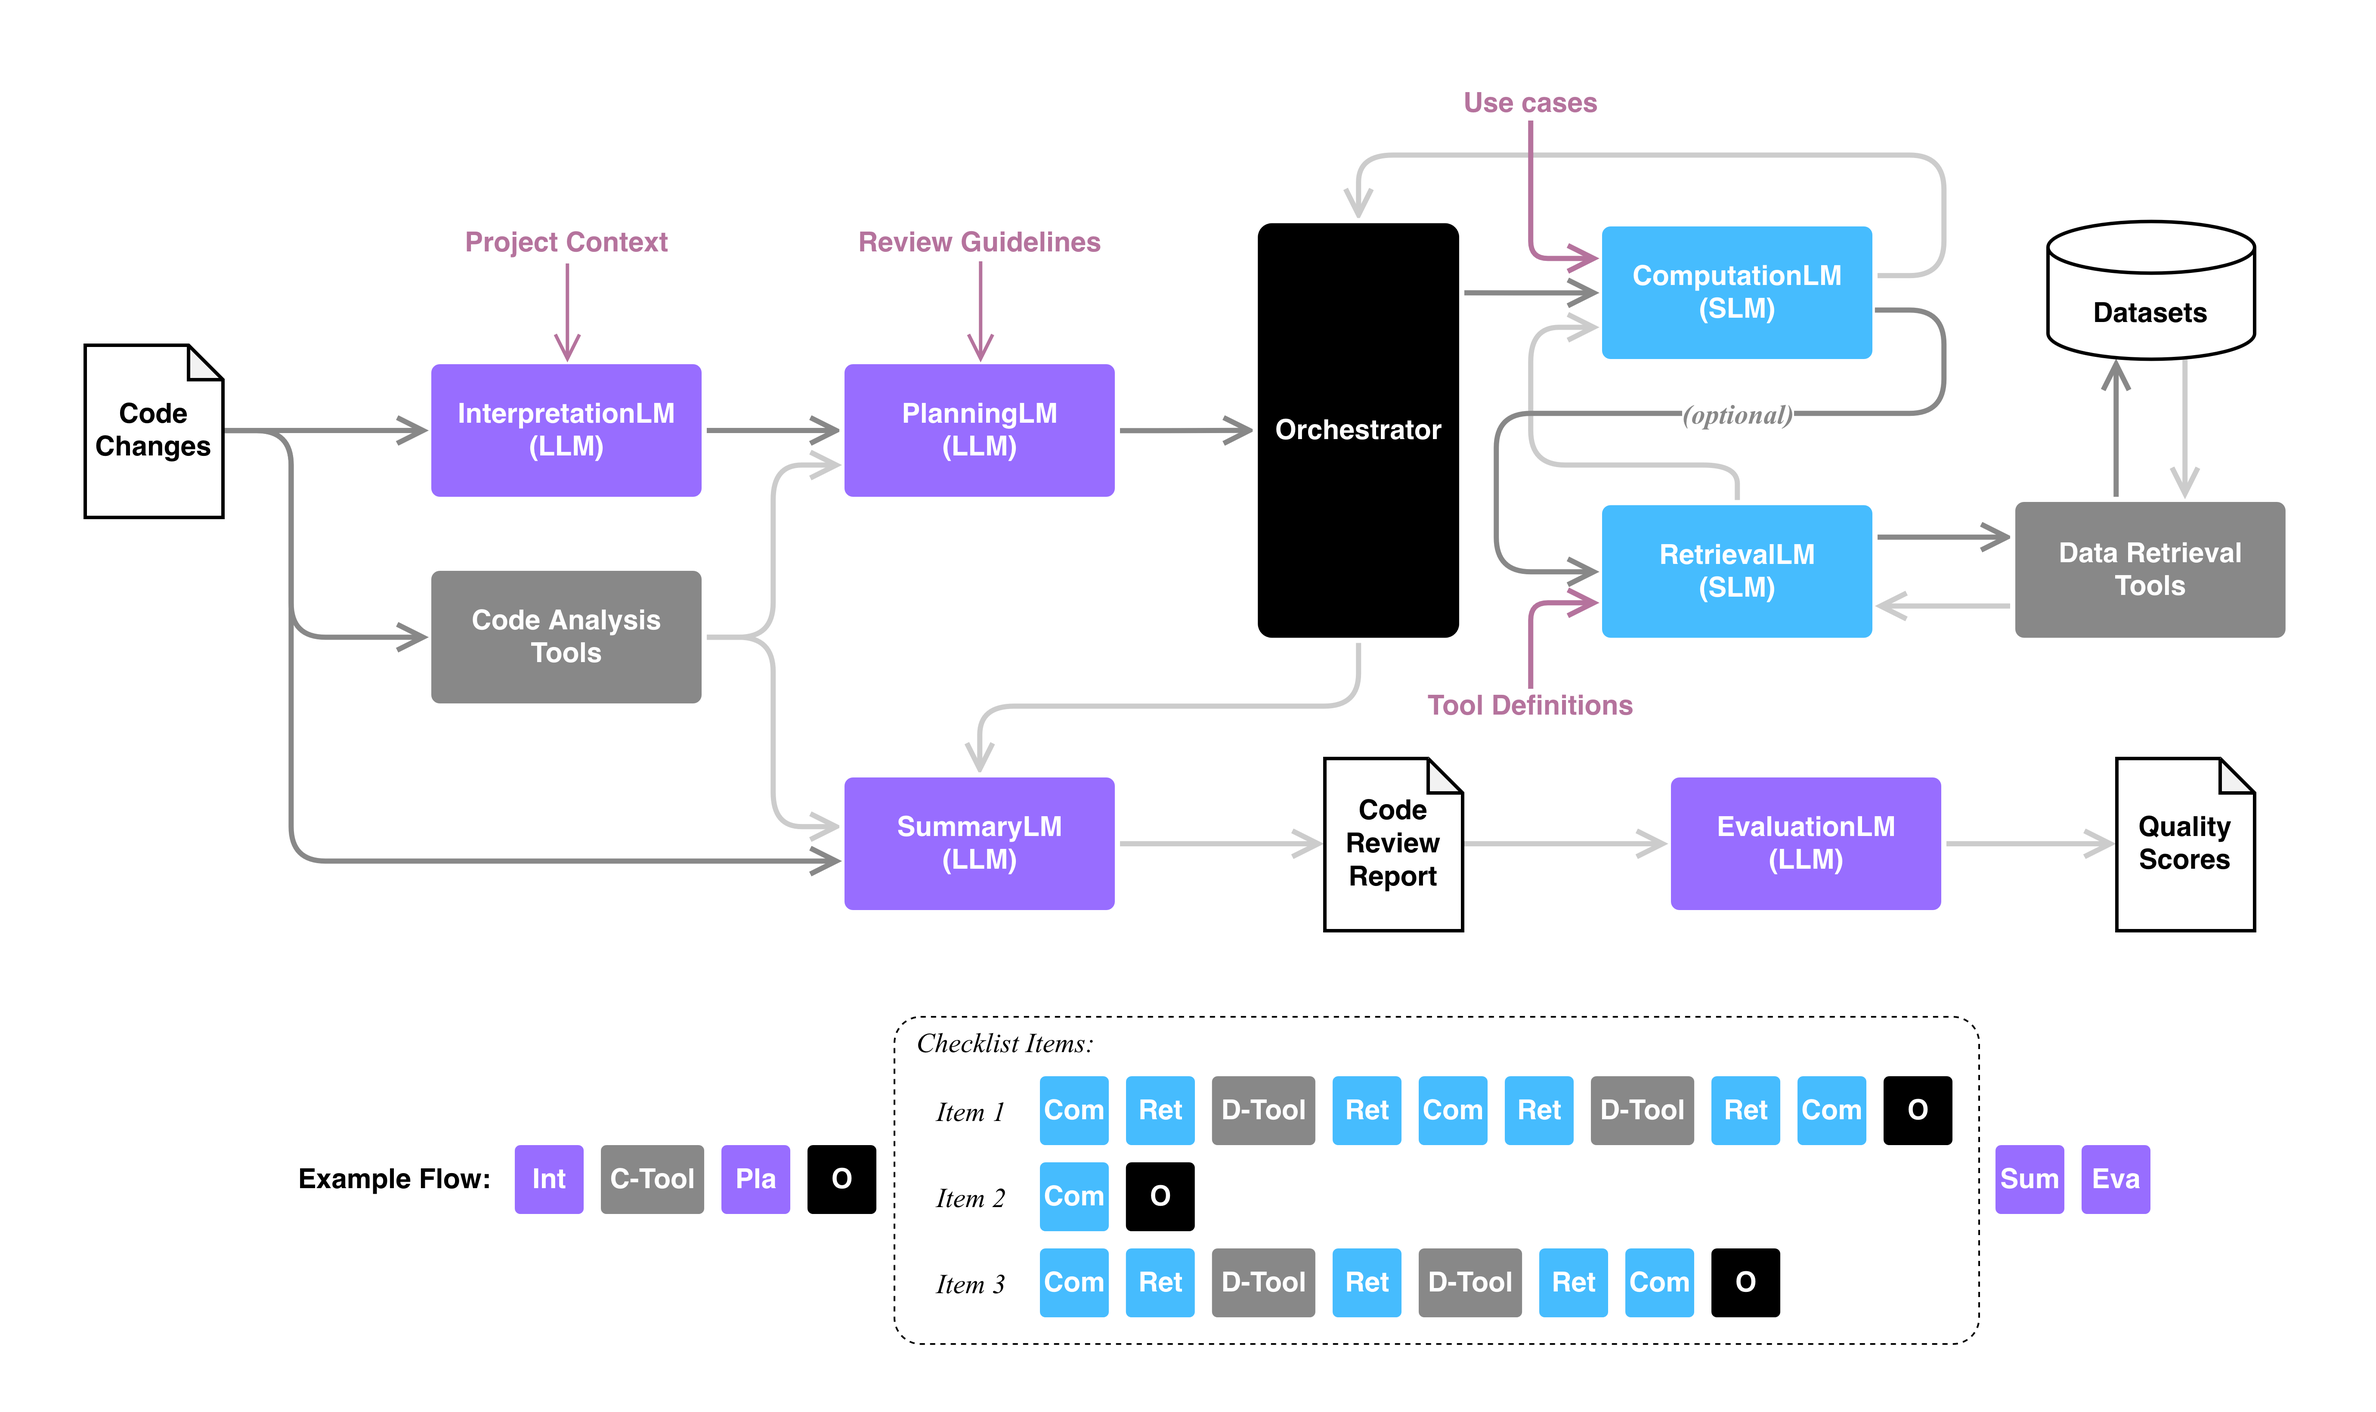
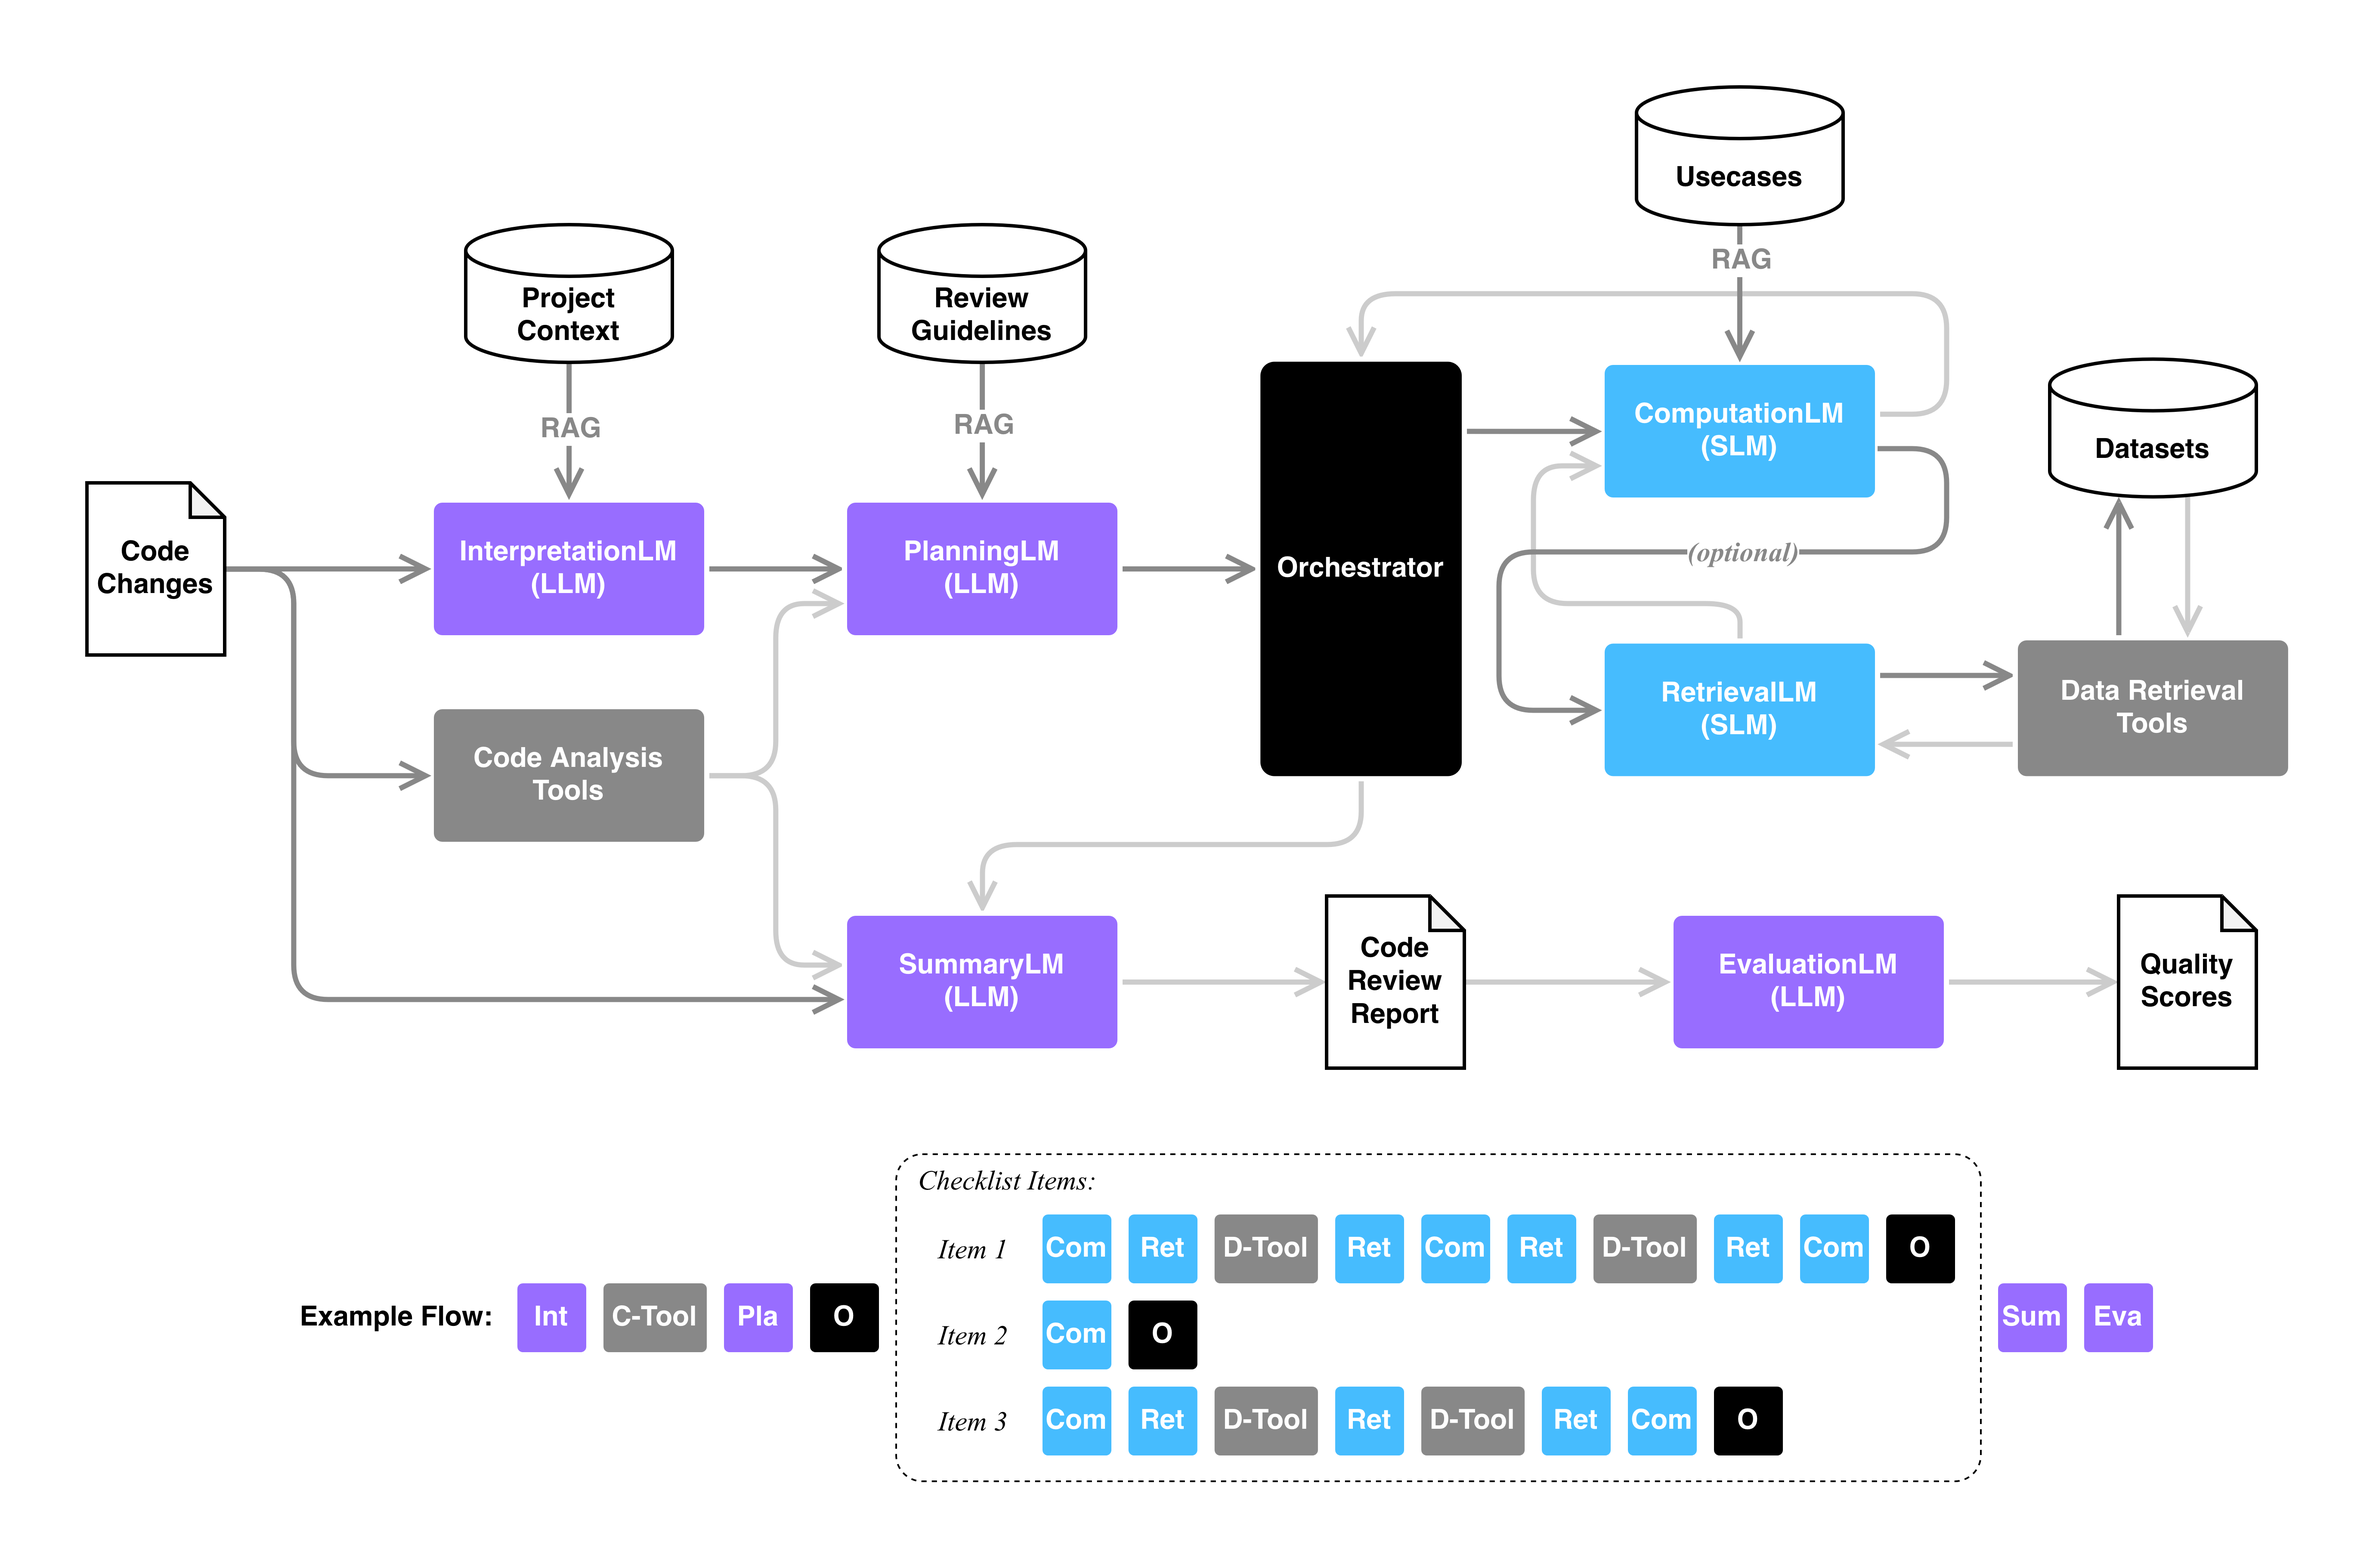
update readme

Changed region(s): [[0.0312, 0.0622, 0.9659, 0.6841], [0.1246, 0.7152, 0.9036, 0.964], [0.3739, 0.7774, 0.4051, 0.8085]]

diff --git a/README.md b/README.md
@@ -1,121 +1,44 @@
-# Intelligent Code Review RAG Application
+# Intelligent Code Review Application
 
-Project for Software Engineering Lab.  
-Detail: https://drive.google.com/file/d/1ROs21oOD5hAumyx3W9JTEB31CfwmOUw5/view?usp=share_link
+Project for Software Engineering Lab.
 
-
-# Run
-Prerequisites:
-- Java 17+
-- Docker and Docker Compose
-- llama.cpp and llama-swap
-
-To run the application, follow these steps:
-- Make sure llama.cpp and llama-swap is installed.
-- Start llama-swap `llama-swap -config llama-swap.yml -listen localhost:8080`.
-- Start the FAISS and MariaDB services using `docker-compose up -d`.
-- Run the application using `./run.sh`.
-
-> [!NOTE]
-> You can use the pre-extracted test data at `_backups/` to run the RAG application without running the ETL pipeline.  
-> Place `.index` file under `./faiss_service/app/data` and import `.sql` file to MariaDB.  
-> For example, run the following to import DB.  
-> ```sh
-> docker exec -i mariadb mariadb -u user -p123 ragdb < ragdb_backup.sql
-> ```
-
-# Datasets
-- Spring AI: [release 2.0.0-M1](https://github.com/spring-projects/spring-ai/releases/tag/v2.0.0-M1)
-
-# Configuration
-- Set FAISS and MariaDB configurations in `docker-compose.yml`.
-  - The index file of FAISS is stored in `./faiss_service/app/data`.
-  - The database data is stored in docker volume, you can backup it via:
-    ```sh
-    docker exec mariadb mariadb-dump -u root -proot123 ragdb > ragdb_backup.sql
-    ```
-- Set spring app properties at `application.properties`.
-- Set datasets and code review configurations at `application.yml`.
-- Set llama-swap configuration at `llama-swap.yml`.
-- Set environment variables at `.env` file.
-  ```sh
-  export DB_USERNAME="user"
-  export DB_PASSWORD="123"
-  export GOOGLE_GEMINI_API_KEY="???"
-  ```
-
-
-# Structure
+## Project Structure
 ```
 llmcr/
-├── docker-compose.yml          # MariaDB + FAISS service containers
-├── llama-swap.yml              # LLM model routing config (llama-swap)
+├── docker-compose.yml
+├── llama-swap.yml
+├── data/                       # Data preparation scripts
 ├── faiss_service/              # Python FAISS microservice
-├── spring-app/                 # Main Spring Boot application
-│   ├── review.sh               # Entry point to trigger code review
-│   └── src/main/
-│       ├── resources/
-│       │   ├── application.properties   # DB / model endpoint config
-│       │   └── application.yml          # Dataset paths & review config
-│       └── java/com/llmcr/
-│           ├── LlmcrApplication.java
-│           ├── entity/                  # JPA entities (TrackRoot, Source, Context, Chunk, …)
-│           ├── repository/              # Spring Data repositories
-│           ├── service/
-│           │   ├── etl/                 # ETL pipeline (extract → split → enrich → load)
-│           │   │   ├── ETLPipeline.java
-│           │   │   ├── extractor/       # Per-source-type extractors
-│           │   │   └── transformer/     # Splitters & enrichers
-│           │   ├── rag/                 # RAG advisor & retrieval strategies
-│           │   │   ├── RAGAdvisor.java
-│           │   │   └── retrieval/       # Fusion & top-k selection
-│           │   ├── review/              # Multi-agent code review workflow
-│           │   │   ├── CodeReviewService.java
-│           │   │   ├── agent/           # Interpretation / Planning / Computation / Retrieval / Summary agents
-│           │   │   ├── workflow/        # Chain, parallelization & retrieval-loop orchestration
-│           │   │   └── trace/           # Logging & trace collection
-│           │   └── sync/               # Source sync service
-│           ├── tool/
-│           │   └── RetrievalMethods.java  # Tool definitions exposed to Retrieval Agent
-│           ├── vectorstore/             # FAISS vector store adapter
-│           └── client/                  # LLM / embedding / reranking clients
-├── _datasets/                  # Raw data fed into ETL
-├── _backups/                   # Pre-built index & DB dump
-│   ├── ragdb_backup.sql
-│   └── faiss/*.index
+├── models/                     # .gguf files
+├── logs/
+├── spring-app/
+│   ├── resources/
+│   │   ├── application.properties   # Application config
+│   │   └── application.yml          # ETL input data config
+│   └── java/com/llmcr/
+│       ├── LlmcrApplication.java
+│       ├── agent/                   # Agents
+│       ├── client/                  # LLM, embedding, reranking clients
+│       ├── config/
+│       ├── entity/                  # JPA entities
+│       ├── rag/                     # RAG components
+│       ├── repository/              # Spring Data repositories
+│       ├── runner/                  # Application entrypoints
+│       ├── service/
+│       │   ├── etl/                 # ETL pipeline
+│       │   ├── review/              # Code review service
+│       │   ├── sync/                # Sync service
+│       ├── tool/                    # Tools for agent tool calling
+│       ├── util/      
+│       └── vectorstore/             # Vector database          
+├── _datasets/
+└── _backups/                  # Pre-built index & DB dump
 ```
-
 
 # Design Concepts
 
-## Database Tables
-- `TrackRoot`: represents a specific folder or file that we want to track.
-  - A `TrackRoot` can be configure with `allowed_source_types` defines what type of data source to be included when tracking. 
-- `Source`: represents a specific file that we want to extract data from.
-- A `Context` is a paragraph of meaningful text.
-  - It can be an entire Java class, a paragraph in a document, or some defined structure.
-  - The retrieval result is a list of `Context`.
-- A `Chunk` is a smaller paragraph of text that is stored in a vector database as embedding.
-  - The similarity search result is a list of `Chunk`.
-- A `ChunkCollection` is a collection of `Chunk` that represents a specific scope of data.
-  - The retrieval is performed on `ChunkCollection` level, which means the only the `Chunk` within the `ChunkCollection` is considered when performing retrieval.
-
-### Avaliable ChunkCollections
-- `project-context` including all source code and internal documentations of the project.
-- `docs` including all internal documentations and all external knowledge.
-- `guidelines` including all code review guidelines.
-- `usecases` including all use cases on how to perform specific code review checks.
-
-
 ## Multi-Agent Code Review Workflow
-![alt text](./assets/architecture.png)
-
-1. Interpretation Agent receives code changes and project context, and generates code interpretation including change description and change motivation.
-2. Planning Agent receives code changes, code interpretation, code analysis and review guidelines, and generates a checklist of code review items.
-3. For each checklist item, Computation Agent receives code changes, checklist item, previous analysis and previous retrieval result, and generates item answer. If the current data is not enough for answering the checklist item, it will generate a data query and send it to Retrieval Agent.
-4. Retrieval Agent receives data query and tool definitions, and generates tool requests. After receiving tool responses, it evaluates whether the responses satisfied the query. If the responses is determined to satisfy the query, send it back to the Computation Agent; otherwise, call tools again until the query is satisfied.
-5. Summary Agent receives code changes, code analysis and item answers, and generates code review report.
-6. (Not Implement Now) Evaluation Agent receives code changes and code review report, and generates quality scores.
+<img src="assets/architecture.png" width="800">
 
 ### Agents
 #### Interpretation Agent
@@ -127,7 +50,7 @@ llmcr/
 - Output: Checklist
 
 #### Computation Agent
-- Input: Code Changes + Checklist Item + Previous Analysis (if have) + Previous Retrieval Result (if have)
+- Input: Code Changes + Checklist Item + Previous Analysis (if have) + Previous Retrieval Result (if have) + (RAG) Related Use Cases
 - Output: Item Answer
     - If current data is not enough, it output a query to Retrieval Agent.
 
@@ -145,8 +68,87 @@ llmcr/
 - Input: Code Changes + Code Review Report
 - Output: Quality Scores
 
-# TODO
-- Write use cases
+## Data Schema
+- `TrackRoot`: represents a specific folder or file that we want to track.
+  - A `TrackRoot` can be configure with `allowed_source_types` defines what type of data source to be included when tracking. 
+- `Source`: represents a specific file that we want to extract data from.
+- A `Context` is a paragraph of meaningful text.
+  - It can be an entire Java class, a paragraph in a document, or some defined structure.
+  - The retrieval result is a list of `Context`.
+- A `Chunk` is a smaller paragraph of text that is stored in a vector database as embedding.
+  - The similarity search result is a list of `Chunk`.
+- A `ChunkCollection` is a collection of `Chunk` that represents a specific scope of data.
+  - The retrieval is performed on `ChunkCollection` level, which means the only the `Chunk` within the `ChunkCollection` is considered when performing retrieval.
+
+### Avaliable ChunkCollections
+- `project-context` including all source code and internal documentations of the project.
+- `docs` including all internal documentations and all external knowledge.
+- `guidelines` including all code review guidelines.
+- `usecases` including all use cases on how to perform specific code review checks.
+
+## ETL and RAG
+<img src="assets/etl-rag.png" width="600">
+
+ETL pipeline and RAG workflow illustration. The ETL pipeline is responsible for extracting data from various sources, processing it into `Context`, and storing it in the vector database as `Chunk`. The RAG workflow retrieves relevant `Chunk` from the vector database based on the input query, and use them as additional context for agents to generate answer.
+
+
+# Setup
+Prerequisites:
+- Java 17+
+- Docker and Docker Compose
+- llama.cpp and llama-swap
+
+## Configuration
+- Set FAISS and MariaDB configurations in `docker-compose.yml`.
+  - The index file of FAISS is stored in `./faiss_service/app/data`.
+  - The database data is stored in docker volume, you can backup it via:
+    ```sh
+    docker exec mariadb mariadb-dump -u root -proot123 ragdb > ragdb_backup.sql
+    ```
+- Set spring app properties at `application.properties`.
+- Set datasets and code review configurations at `application.yml`.
+- Download and place .gguf model files under `./models` folder.
+- Set llama-swap configuration at `llama-swap.yml`.
+- Set environment variables at `.env` file.
+  ```sh
+  export DB_USERNAME="user"
+  export DB_PASSWORD="123"
+  export GOOGLE_GEMINI_API_KEY="???"
+  ```
+
+## Run the Application
+Follow these steps:
+- Make sure llama.cpp and llama-swap is installed.
+- Start llama-swap `llama-swap -config llama-swap.yml -listen localhost:8080`.
+- Start the FAISS and MariaDB services using `docker-compose up -d`.
+- Run the application using `./run.sh`.
+
+> [!NOTE]
+> You can use the pre-extracted test data at `_backups/` to run the RAG application without running the ETL pipeline.  
+> Place `.index` file under `./faiss_service/app/data` and import `.sql` file to MariaDB.  
+> For example, run the following to import DB.  
+> ```sh
+> docker exec -i mariadb mariadb -u user -p123 ragdb < ragdb_backup.sql
+> ```
+
+
+# Datasets used
+- Project Context: Spring AI [release 2.0.0-M1](https://github.com/spring-projects/spring-ai/releases/tag/v2.0.0-M1)
+- Review Guidelines:
+  - https://google.github.io/eng-practices/review/reviewer/standard.html
+  - https://docs.gitlab.com/development/code_review/
+  - Some handwritten documents
+- Use Cases: 
+  - Use GPT-5.5 to generate example computation responses from selected pull requests, validated by myself
+    - https://github.com/spring-projects/spring-ai/pull/5934
+    - https://github.com/spring-projects/spring-ai/pull/4274
+  - Total 14 usecase
+    - 4 need additional data, 4 with Yes final answer, 6 with No final answer
+- Tool Definitions:
+  - refer to `spring-app/src/main/java/com/llmcr/tool`
+- Other datasets:
+  - SE documents: Effective Java 3rd Edition by Joshua Bloch
+
 
 # Common Problems
 #### Can not find JAVA_HOME (Windows)
